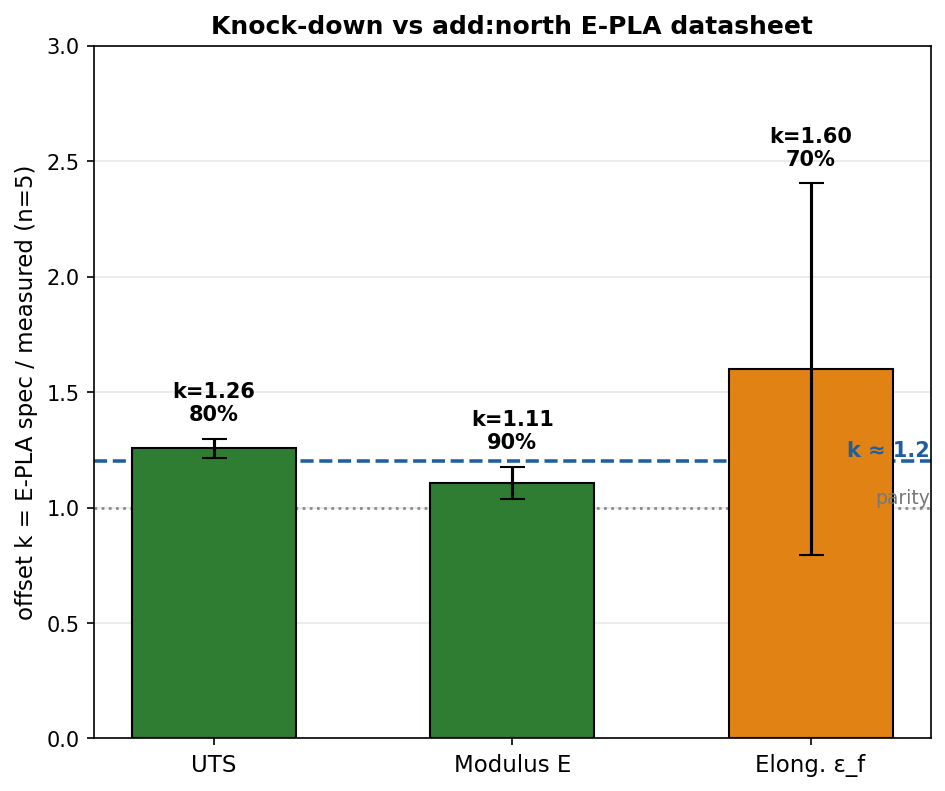
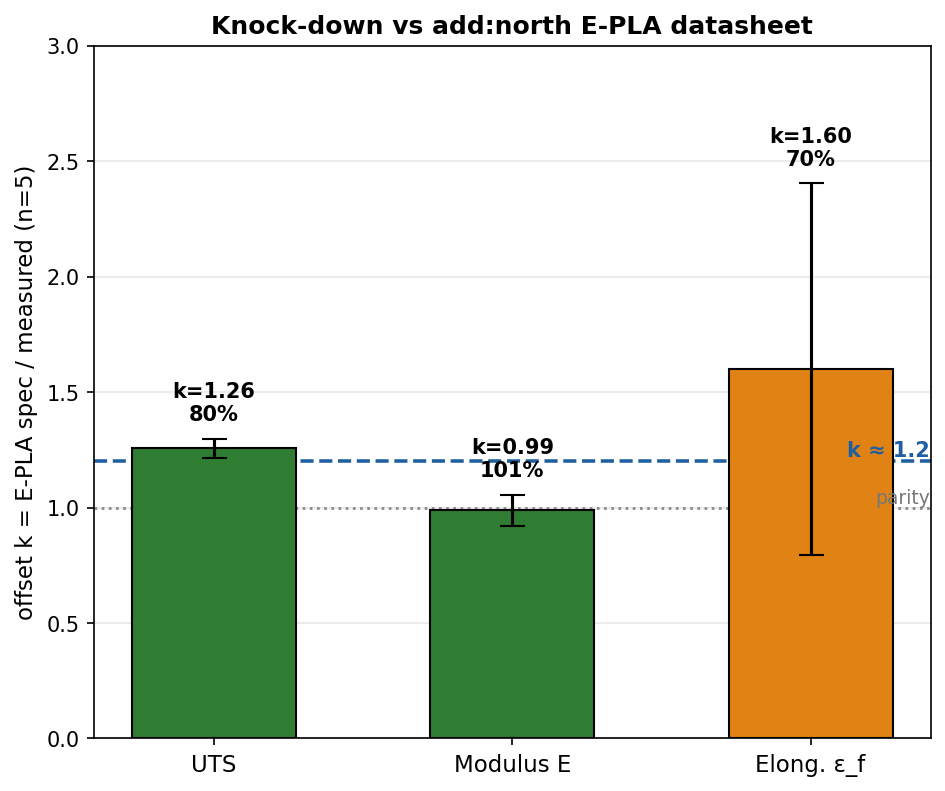
Move the 19 loose root scripts into Software/py codes/
The repository root held 19 analysis and plotting scripts beside the READMEs and the top-level
folders. They are scripts rather than a package - nothing here imports anything else here - so they
move as a group with no import graph to untangle.

Two things had to be checked rather than assumed:

  - Three of them (v6_compare, v6_fracture_montage, v6_quintet_plots) locate Software/UTM_PyQt6
    from __file__ so they can import utm_analysis. At the root that read dirname(__file__)/Software/
    UTM_PyQt6; from Software/py codes/ the same expression points at Software/py codes/Software/
    UTM_PyQt6, which does not exist. Rewritten for the new depth.

  - Every data and figure path inside them is relative to the REPO ROOT, not to the script. Moving
    the file does not move the working directory they expect, so they still have to be run from the
    root - exactly as before. Nothing needed changing, but it needed confirming, and it is now
    written down.

Verified by running all 19 from the repository root: 18 exit 0, and staircase_analysis.py exits 1
with its usage message because it wants a CSV argument - identical to its behaviour before the
move, checked against the committed version.

Six files elsewhere mention these scripts by name - a slide footnote, a docstring provenance note
in utm_analysis, and a ROADMAP item. All prose, no imports and no paths, so all still read
correctly.

The root is now App.m, four .md files, requirements.txt and the folders.

Changed region(s): [[0.4296, 0.5158, 0.6444, 0.6675]]

diff --git a/Software/py codes/v6_compare.py b/Software/py codes/v6_compare.py
@@ -3,7 +3,7 @@ analyze() from utm_analysis (anchor self-calibration, baseline DIC re-zero, load
 + strain-jump fracture detection)."""
 import sys, os
 sys.stdout.reconfigure(encoding="utf-8")
-sys.path.insert(0, os.path.join(os.path.dirname(os.path.abspath(__file__)), "Software", "UTM_PyQt6"))
+sys.path.insert(0, os.path.join(os.path.dirname(os.path.dirname(os.path.abspath(__file__))), "UTM_PyQt6"))
 from statistics import mean, median, pstdev, stdev
 from utm_analysis import analyze
 ROOT = r"Software\UTM_PyQt6\8.6.20 - Tensile test to Failure"

diff --git a/Software/py codes/v6_quintet_plots.py b/Software/py codes/v6_quintet_plots.py
@@ -3,7 +3,7 @@ strength repeatability vs references, ductility range, and offset-k vs datasheet
 Reuses the v6_compare analyze() (load-collapse fracture, anchor, DIC baseline re-zero)."""
 import sys, os
 sys.stdout.reconfigure(encoding="utf-8")
-sys.path.insert(0, os.path.join(os.path.dirname(os.path.abspath(__file__)), "Software", "UTM_PyQt6"))
+sys.path.insert(0, os.path.join(os.path.dirname(os.path.dirname(os.path.abspath(__file__))), "UTM_PyQt6"))
 import matplotlib
 matplotlib.use("Agg")
 import matplotlib.pyplot as plt

diff --git a/Software/py codes/v6_fracture_montage.py b/Software/py codes/v6_fracture_montage.py
@@ -4,7 +4,7 @@ measured UTS and failure strain (load-collapse analyze, same as v6_compare). Sav
 (V6_fracture_patterns.png) for the comparison slide."""
 import sys, os
 sys.stdout.reconfigure(encoding="utf-8")
-sys.path.insert(0, os.path.join(os.path.dirname(os.path.abspath(__file__)), "Software", "UTM_PyQt6"))
+sys.path.insert(0, os.path.join(os.path.dirname(os.path.dirname(os.path.abspath(__file__))), "UTM_PyQt6"))
 import matplotlib
 matplotlib.use("Agg")
 import matplotlib.pyplot as plt
